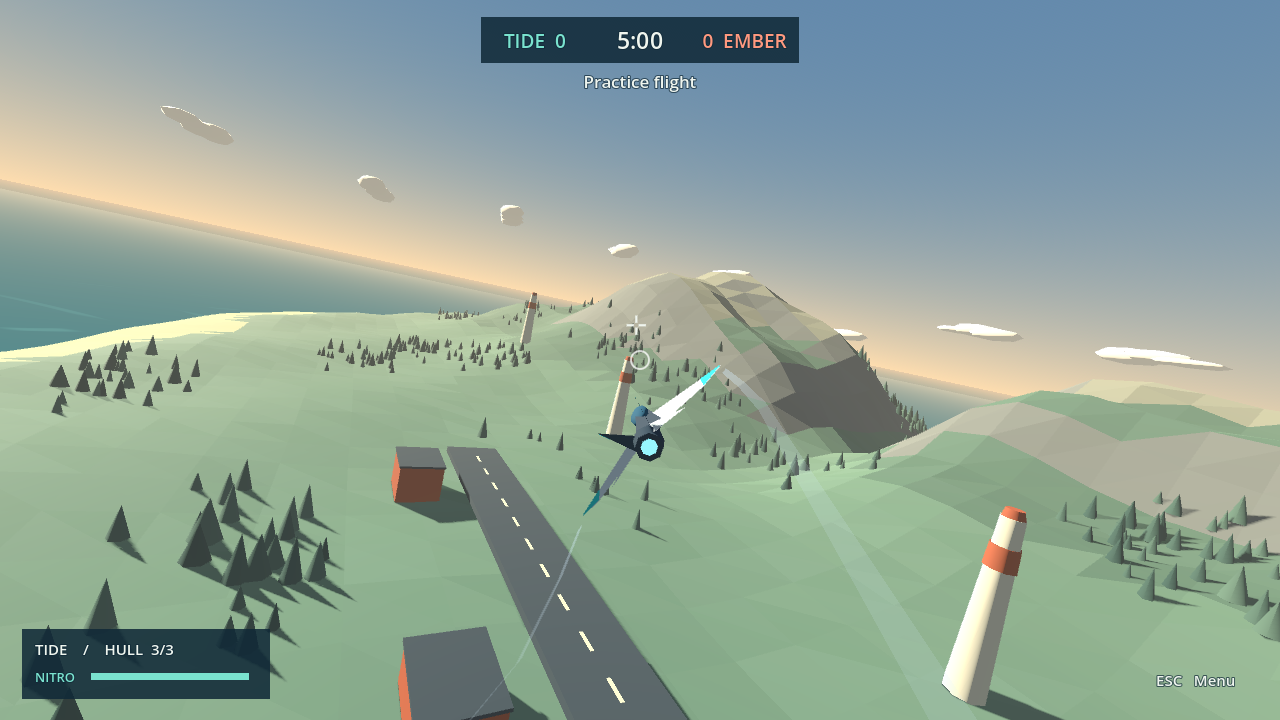
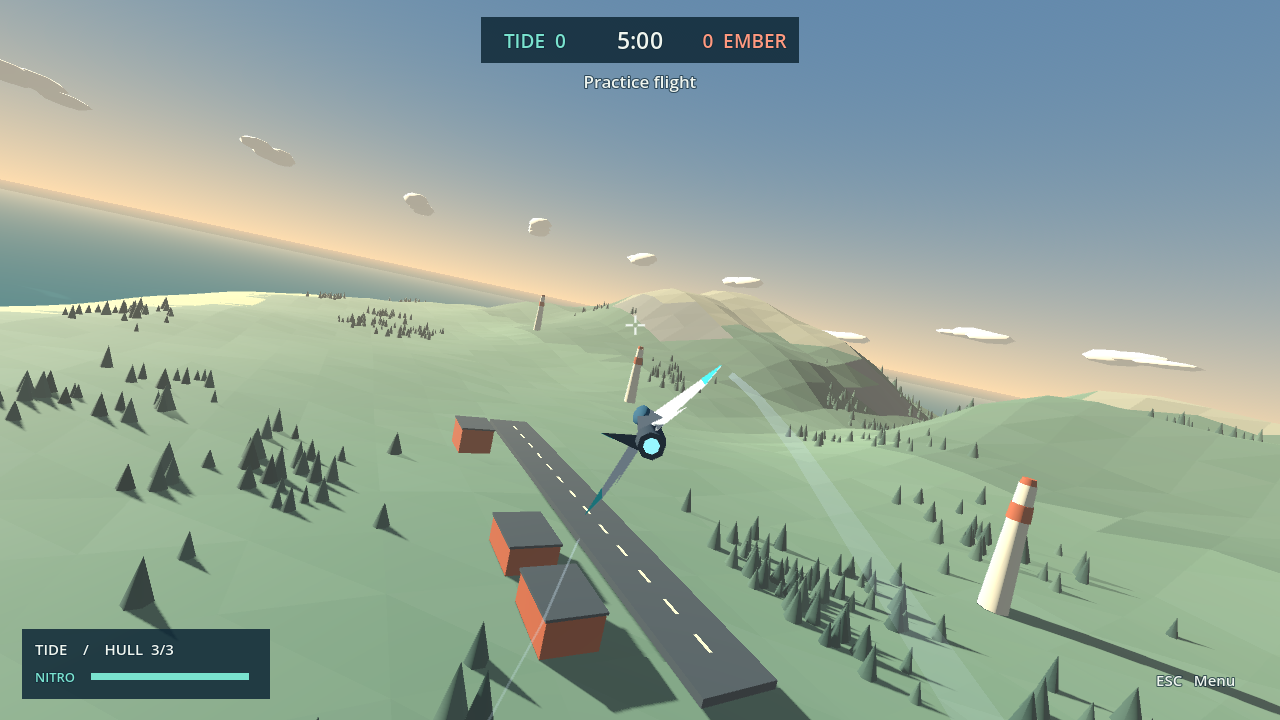
Rename game to air-strike, support firing in turns and double the flight area

diff --git a/README.md b/README.md
@@ -1,14 +1,16 @@
-# Breakwater
+# air-strike
 
 A local multiplayer jet game for Windows. Fly through the mountain pass on Kestrel Island, bank around the coastal airfield, and chase the opposing team over the water. One laptop hosts up to four pilots. A solo practice flight uses the same aircraft and island.
 
 ![A practice flight over Kestrel Island](docs/flight.png)
 
-[Download the Windows game or watch the 30-second practice flight](https://github.com/0xmostafaa/breakwater-air-circuit/releases/tag/v0.1.0)
+Kestrel Island and its flight zone have twice the horizontal area of the original demo. Install the same game version on every laptop in a match.
+
+[Download the Windows game](https://github.com/0xmostafaa/breakwater-air-circuit/releases/tag/v0.2.0)
 
 ## Play
 
-1. Download the Windows ZIP. Extract it and double-click **Breakwater.exe**. Keep **Breakwater.pck** beside the executable.
+1. Download the Windows ZIP. Extract it and double-click **air-strike.exe**. Keep **air-strike.pck** beside the executable.
 2. Choose **Practice flight** to learn the controls. To play together, connect the laptops to the same Wi-Fi and have one pilot choose **Host LAN match**.
 3. Enter the host's displayed Wi-Fi IPv4 address on the other laptops and choose **Join by IP**. If the host lists multiple addresses, use the Wi-Fi adapter's IPv4 address from Windows `ipconfig`.
 
@@ -18,9 +20,8 @@ The match starts when a second pilot joins. The host assigns teams, awards one p
 | --- | --- |
 | W / S | Climb / dive while held |
 | A / D | Bank and turn left / right |
-| Mouse | Move the steering ring. Center it to hold direction. The small cross shows the blaster's aim. |
 | Space | Hold for up to two seconds of boost. Release to recharge. |
-| Left mouse | Hold to fire |
+| Left click or F | Tap for one shot or hold for automatic fire while turning. The crosshair follows the jet's nose. |
 | Esc | Open or close the flight menu. Other pilots keep flying. |
 
 For LAN connection trouble, check that Windows allows the host application on the private network and that the Wi-Fi permits devices to reach each other over UDP port **28741**. A private hotspot also works. WAN matchmaking and host migration are outside this prototype.
@@ -36,8 +37,8 @@ The Windows v0.1.0 build ran on **OpenGL 3.3** on the development laptop. The pa
 To check the renderer on another Windows laptop, extract the game, open PowerShell in its folder, and run:
 
 ```powershell
-$log = Join-Path $env:TEMP 'breakwater-renderer.log'
-Start-Process -FilePath '.\Breakwater.exe' -ArgumentList @('--quit-after', '60', '--log-file', ('"{0}"' -f $log)) -Wait
+$log = Join-Path $env:TEMP 'air-strike-renderer.log'
+Start-Process -FilePath '.\air-strike.exe' -ArgumentList @('--quit-after', '60', '--log-file', ('"{0}"' -f $log)) -Wait
 Select-String -LiteralPath $log -Pattern 'OpenGL|Vulkan|Direct3D'
 ```
 
